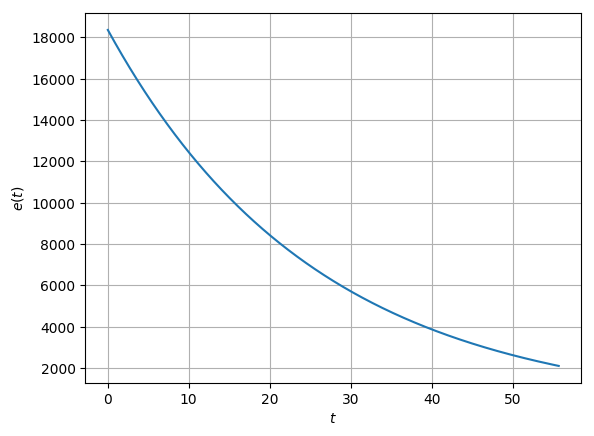
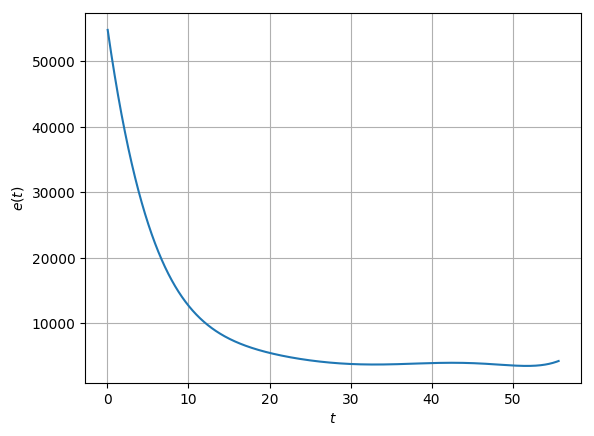
Use non-log curve fitting

diff --git a/experimental_data.py b/experimental_data.py
@@ -42,10 +42,10 @@ for i, data_point in enumerate(data_list[4:-1]):
         dx = x[len(x) - 1] - x[len(x) - 2]
         dy = y[len(y) - 1] - y[len(y) - 2]
         dt = t[len(t) - 1] - t[len(t) - 2]
-        if dt is 0:
-            break
-        v_x = dx / h
-        v_y = dy / h
+        if dt == 0 or dt == 0.0:
+            dt = h
+        v_x = dx / dt
+        v_y = dy / dt
         velocity = sqrt(v_x ** 2 + v_y ** 2)
         v.append(velocity)
 
@@ -68,13 +68,24 @@ plt.savefig('plots/' + str(data_number) + '_e.png', bbox_inches='tight')
 plt.close()
 print('Energy plot saved')
 
-fit = np.polyfit(t,np.log(e), 1)
+print('log e', len(np.log(e)), np.log(e))
+print('t', len(t), t)
+
+# Uten log-space:
+fit = np.polyfit(np.array(t), e, 6)
+a = np.polyval(fit, t)
+
+"""
+# Med log-space (funker ikke)
+fit = np.polyfit(np.array(t), np.log(e), 1)
+a = np.exp(fit[1]) * np.exp(fit[0] * np.array(t))
 
 print('fit', fit)
-#a = np.array(np.exp(fit[1]) * np.exp(np.array(t) * float(fit[0])))
-a=np.array(np.exp(fit[1]+fit[0]*np.array(t)))
-print('a', a)
+a = np.array(np.exp(fit[1]) * np.exp(np.array(t) * float(fit[0])))
+# a = np.array(fit[1] + fit[0]*np.array(t))
 
+print('a', a)
+"""
 plt.figure()
 plt.plot(t, a)  # plotting the velocity vs. time: v(t)
 plt.xlabel(r'$t$')

diff --git a/README.md b/README.md
@@ -1,1 +1,19 @@
-# fysikklab
+# Fysikklab
+
+For å sette opp:
+
+1. `cd` til mappen du vil bruke
+2. `git clone https://github.com/finnss/fysikklab.git`
+3. `python3 -m venv venv`
+4. `source venv/bin/activate`
+5. `pip install -r requirements.txt`
+
+Og da skal dere være good. Nå kan dere kjøre `python experimental_data.py` i samme mappe for å generere grafene fra den eksperimentelle delen, eller `python numeric_solution.py` for å kjøre den numeriske tilnærmingen.
+
+Det ligger grafer i `plots`-mappen. `12_e` er for eksempel energi-grafen til tracker scan nr 12, og `12_fit` er den tilnærmete funksjonsgrafen. `_v` og `_x` er nok ikke helt pålitelige.
+
+I den eksperimentelle delen klarte jeg ikke å få til regresjon via log-space, så nå bruker jeg et sjetteordens polynom.
+
+Jeg er ikke ferdig med den numeriske delen, det er vel det som skal gjøres på labben jeg er borte. Burde være et greit utgangspunkt der ihvertfall.
+
+Lykke til!
